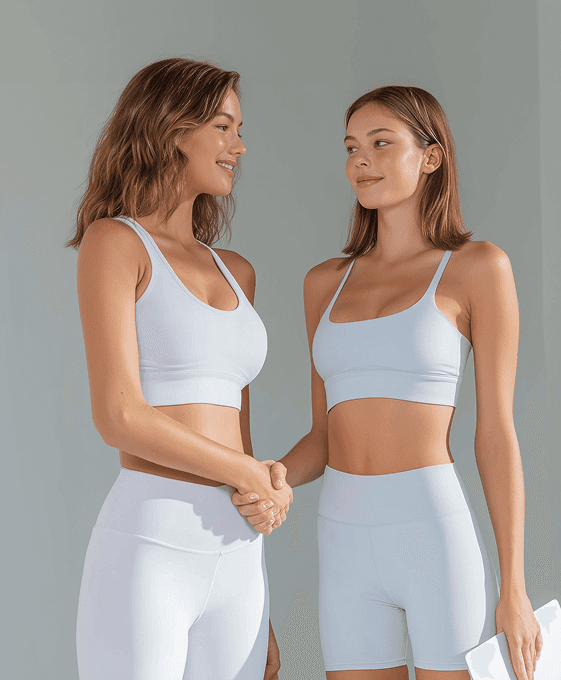
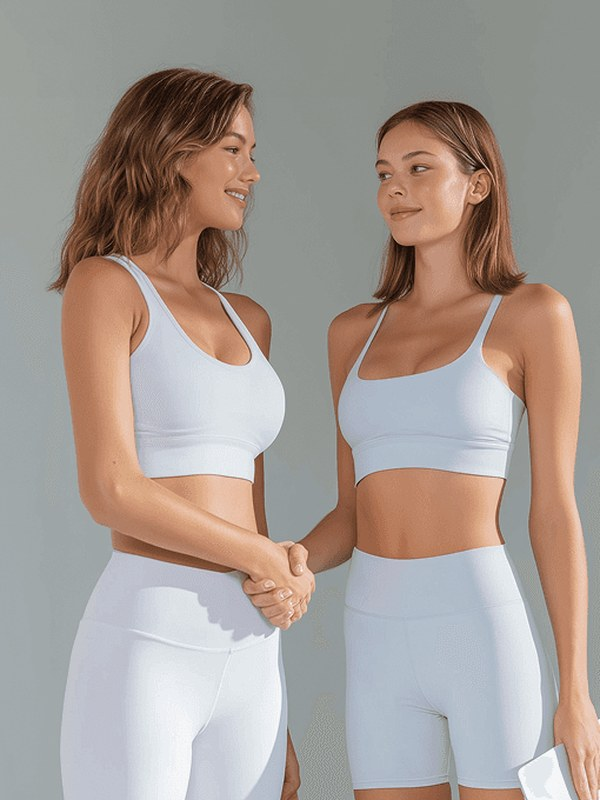
v36-uniform-trainer-portraits-trim-robin-bottom

diff --git a/src/app/templates/yogacentric-studio/trainers/page.tsx b/src/app/templates/yogacentric-studio/trainers/page.tsx
@@ -28,26 +28,17 @@ export default function TrainersPage() {
             {templateModule.content.about.body[0]}
           </p>
           <div className="mt-16 grid gap-12 sm:grid-cols-2 lg:grid-cols-3">
-            {trainers.map((t, i) => {
-              const fullPortrait = i >= trainers.length - 2;
-              return (
+            {trainers.map((t) => (
               <article key={`${t.name}-${t.specialty}`}>
                 <div
                   className="overflow-hidden"
-                  style={{
-                    borderRadius: "var(--tpl-radius)",
-                    background: fullPortrait ? "var(--tpl-card)" : undefined,
-                  }}
+                  style={{ borderRadius: "var(--tpl-radius)" }}
                 >
                   {/* eslint-disable-next-line @next/next/no-img-element */}
                   <img
                     src={t.photo}
                     alt={t.name}
-                    className={
-                      fullPortrait
-                        ? "block h-auto w-full"
-                        : "aspect-[3/4] w-full object-cover object-center"
-                    }
+                    className="aspect-[3/4] w-full object-cover object-center"
                   />
                 </div>
                 <h2 className="mt-5 text-xl font-semibold" style={{ color: "var(--tpl-ink)" }}>
@@ -57,8 +48,7 @@ export default function TrainersPage() {
                   {t.specialty}
                 </p>
               </article>
-            );
-            })}
+            ))}
           </div>
         </div>
       </section>

diff --git a/src/lib/version.ts b/src/lib/version.ts
@@ -1,1 +1,1 @@
-export const SITE_VERSION = "v35";
+export const SITE_VERSION = "v36";
